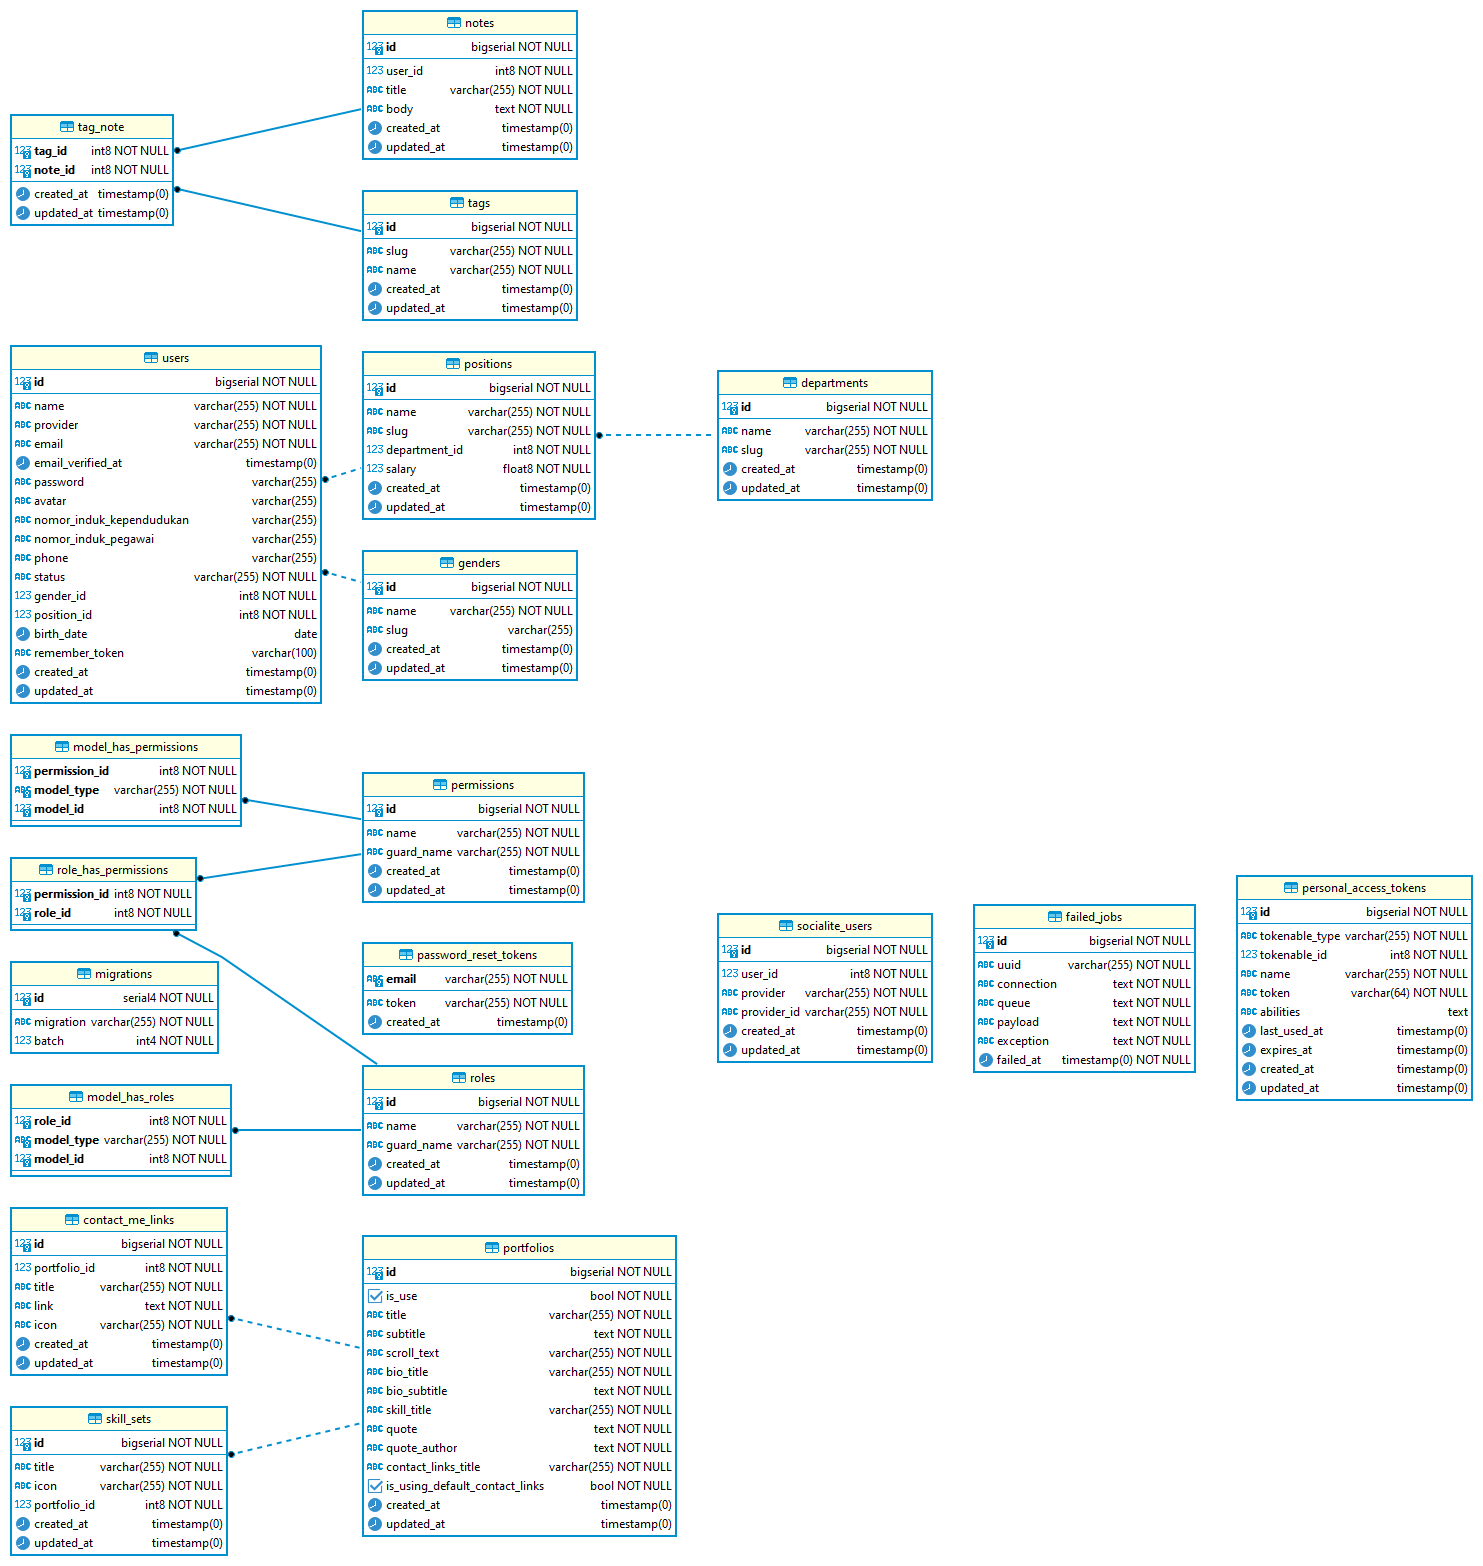
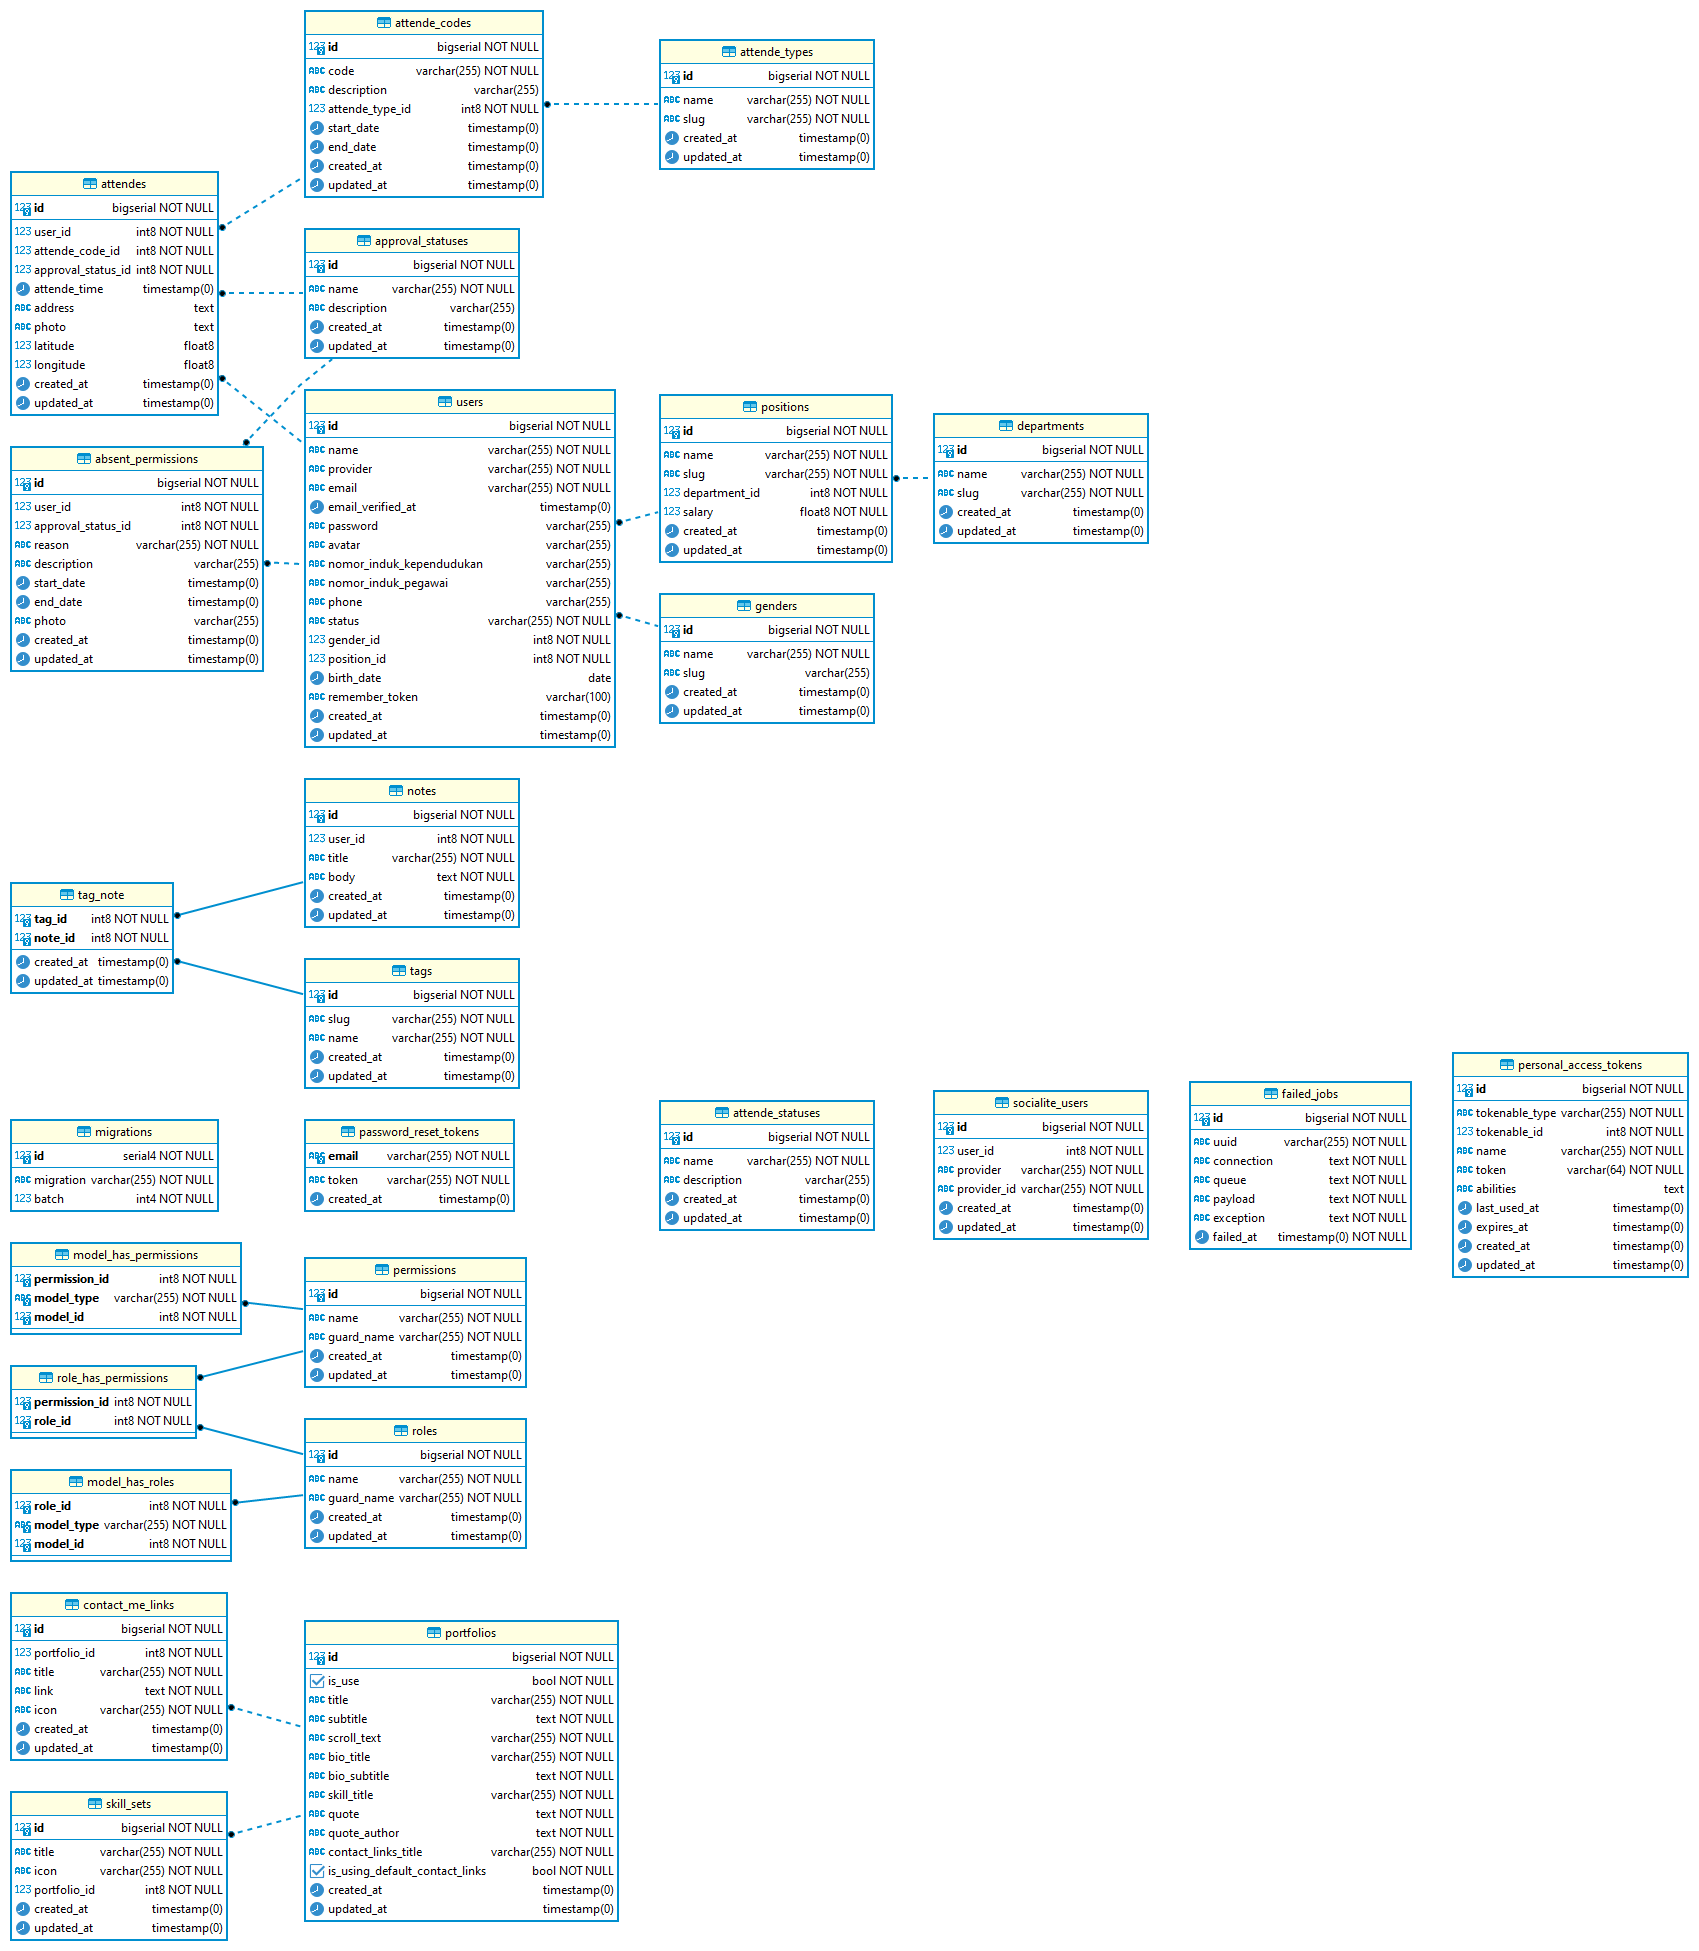
FIX ~ refresh ERD & define relationship in model

Changed region(s): [[0.0, 0.0, 1.0, 1.0]]

diff --git a/app/Models/Attende.php b/app/Models/Attende.php
@@ -8,4 +8,30 @@ use Illuminate\Database\Eloquent\Model;
 class Attende extends Model
 {
     use HasFactory;
+
+    protected $fillable = [
+        'user_id',
+        'attende_code_id',
+        'attende_status_id',
+        'attende_time',
+        'address',
+        'latitude',
+        'longitude',
+        'photo',
+    ];
+
+    public function user()
+    {
+        return $this->belongsTo(User::class);
+    }
+
+    public function attendeCode()
+    {
+        return $this->belongsTo(AttendeCode::class);
+    }
+
+    public function attendeStatus()
+    {
+        return $this->belongsTo(AttendeStatus::class);
+    }
 }

diff --git a/app/Models/AbsentPermission.php b/app/Models/AbsentPermission.php
@@ -8,4 +8,24 @@ use Illuminate\Database\Eloquent\Model;
 class AbsentPermission extends Model
 {
     use HasFactory;
+
+    protected $fillable = [
+        'user_id',
+        'approval_status_id',
+        'description',
+        'start_date',
+        'end_date',
+        'reason',
+        'photo',
+    ];
+
+    public function user()
+    {
+        return $this->belongsTo(User::class);
+    }
+
+    public function approvalStatus()
+    {
+        return $this->belongsTo(ApprovalStatus::class);
+    }
 }

diff --git a/app/Models/AttendeCode.php b/app/Models/AttendeCode.php
@@ -8,4 +8,22 @@ use Illuminate\Database\Eloquent\Model;
 class AttendeCode extends Model
 {
     use HasFactory;
+
+    protected $fillable = [
+        'code',
+        'description',
+        'attende_type_id',
+        'start_date',
+        'end_date',
+    ];
+
+    public function attendes()
+    {
+        return $this->hasMany(Attende::class);
+    }
+
+    public function attendeType()
+    {
+        return $this->belongsTo(AttendeType::class);
+    }
 }

diff --git a/app/Models/User.php b/app/Models/User.php
@@ -69,6 +69,16 @@ class User extends Authenticatable implements MustVerifyEmail
         return $this->belongsTo(Position::class);
     }
 
+    public function absentPermissions()
+    {
+        return $this->hasMany(AbsentPermission::class);
+    }
+
+    public function attendes()
+    {
+        return $this->hasMany(Attende::class);
+    }
+
     public function isLogin()
     {
         return Auth::check();

diff --git a/app/Models/ApprovalStatus.php b/app/Models/ApprovalStatus.php
@@ -8,4 +8,19 @@ use Illuminate\Database\Eloquent\Model;
 class ApprovalStatus extends Model
 {
     use HasFactory;
+
+    protected $fillable = [
+        'name',
+        'description',
+    ];
+
+    public function absentPermissions()
+    {
+        return $this->hasMany(AbsentPermission::class);
+    }
+
+    public function attendes()
+    {
+        return $this->hasMany(Attende::class);
+    }
 }

diff --git a/app/Models/AttendeType.php b/app/Models/AttendeType.php
@@ -8,4 +8,14 @@ use Illuminate\Database\Eloquent\Model;
 class AttendeType extends Model
 {
     use HasFactory;
+
+    protected $fillable = [
+        'name',
+        'slug',
+    ];
+
+    public function attendeCodes()
+    {
+        return $this->hasMany(AttendeCode::class);
+    }
 }

diff --git a/app/Models/Department.php b/app/Models/Department.php
@@ -24,6 +24,11 @@ class Department extends Model
         return $this->hasMany(Position::class);
     }
 
+    public function users()
+    {
+        return $this->hasManyThrough(User::class, Position::class);
+    }
+
     public function getRouteKeyName()
     {
         return 'slug';
